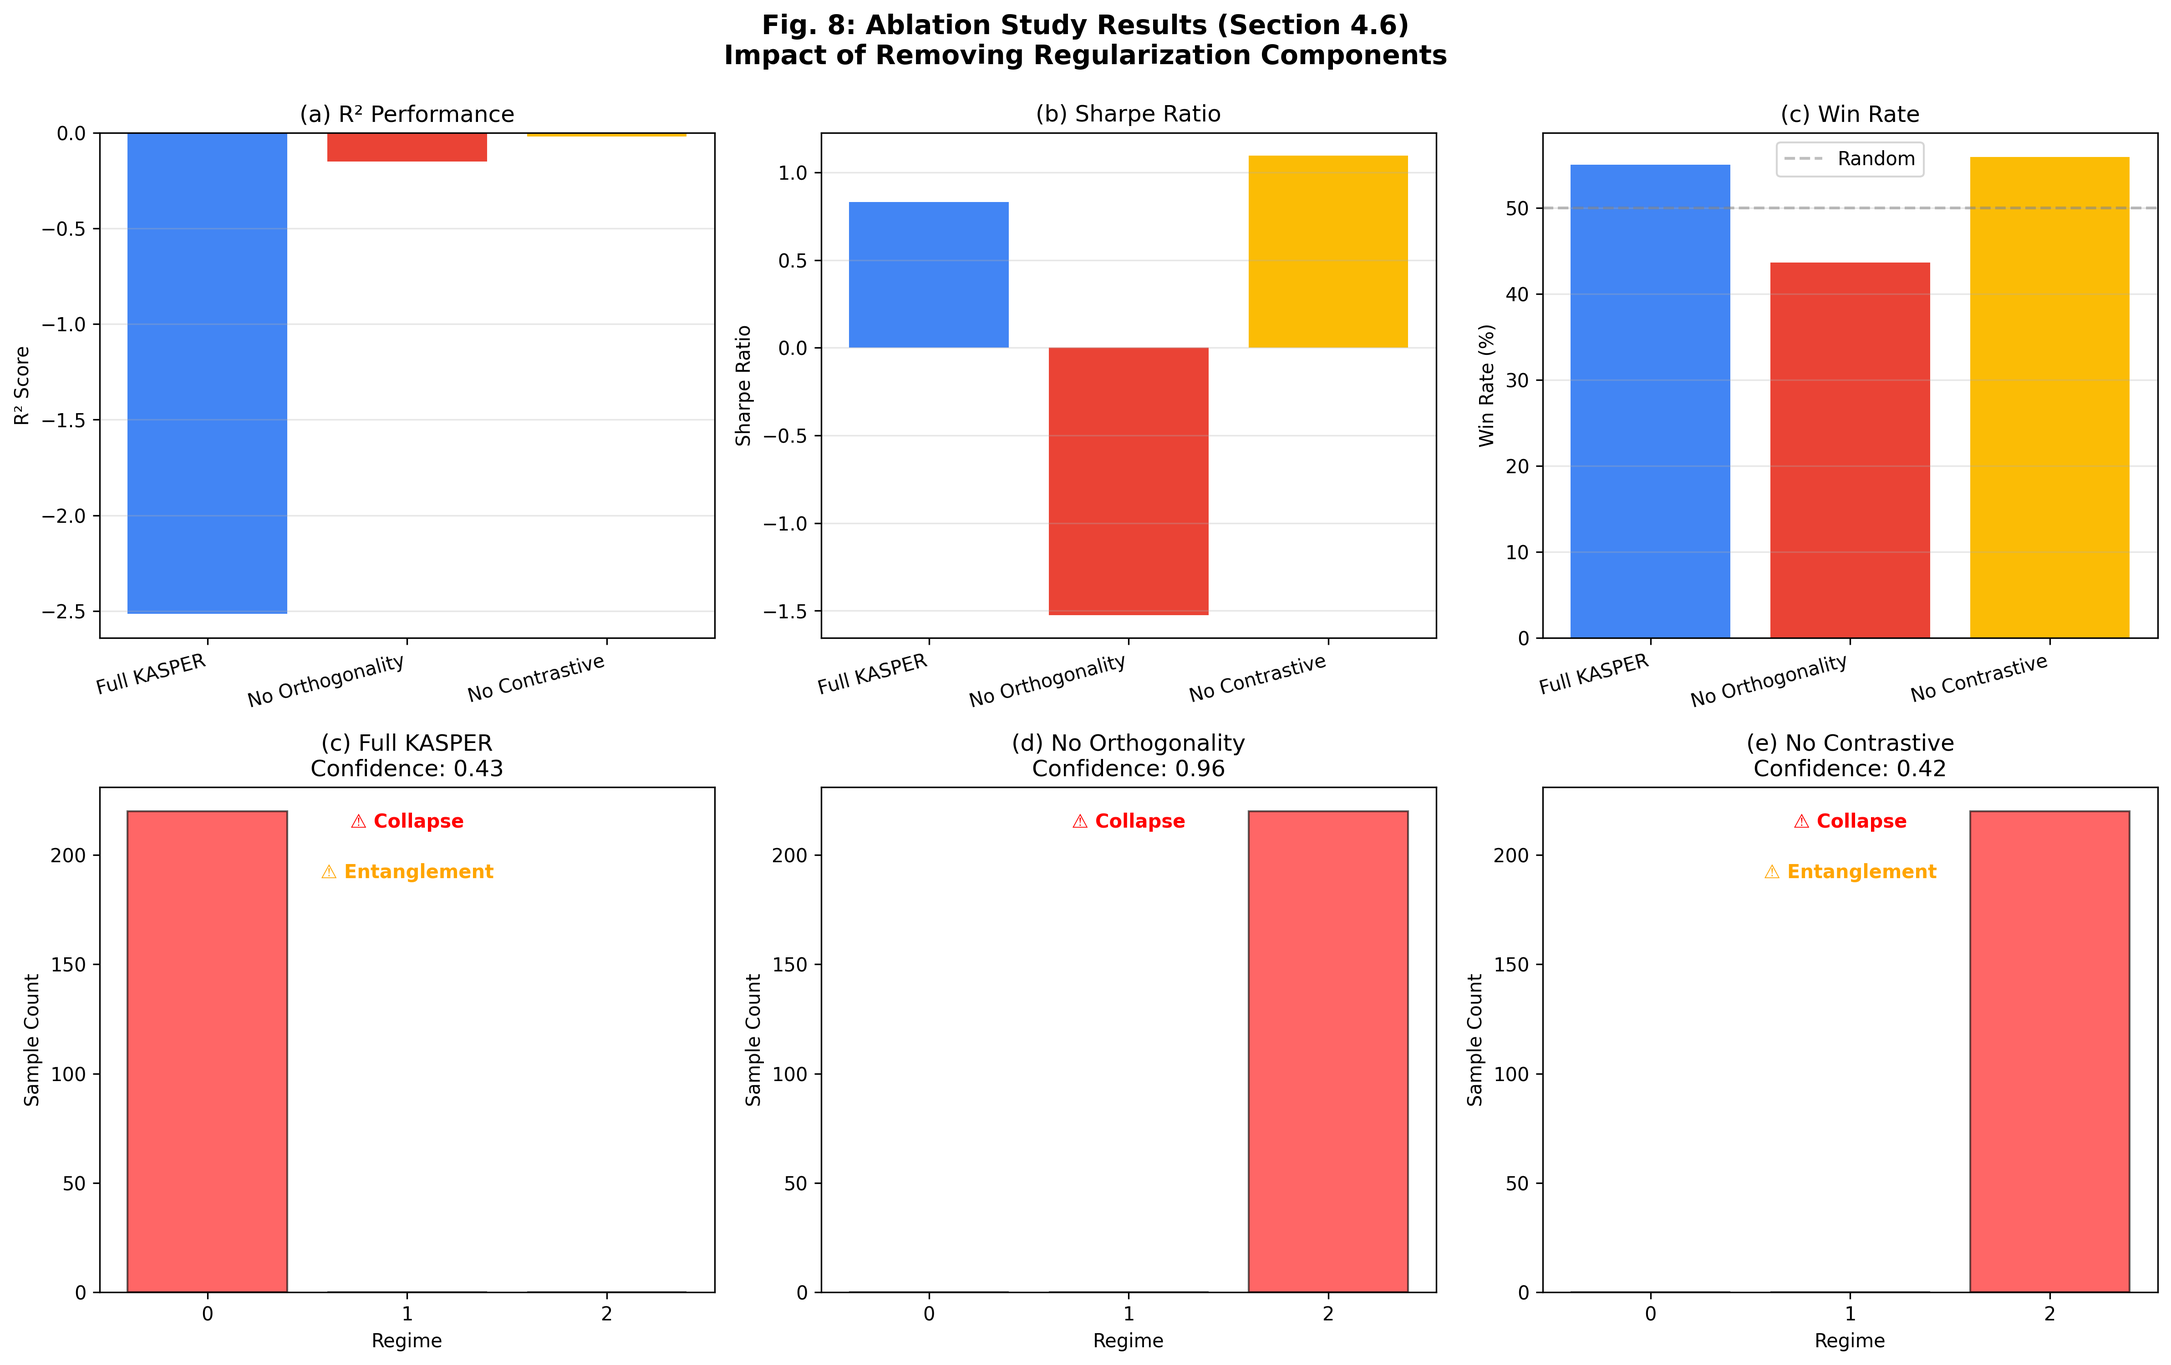
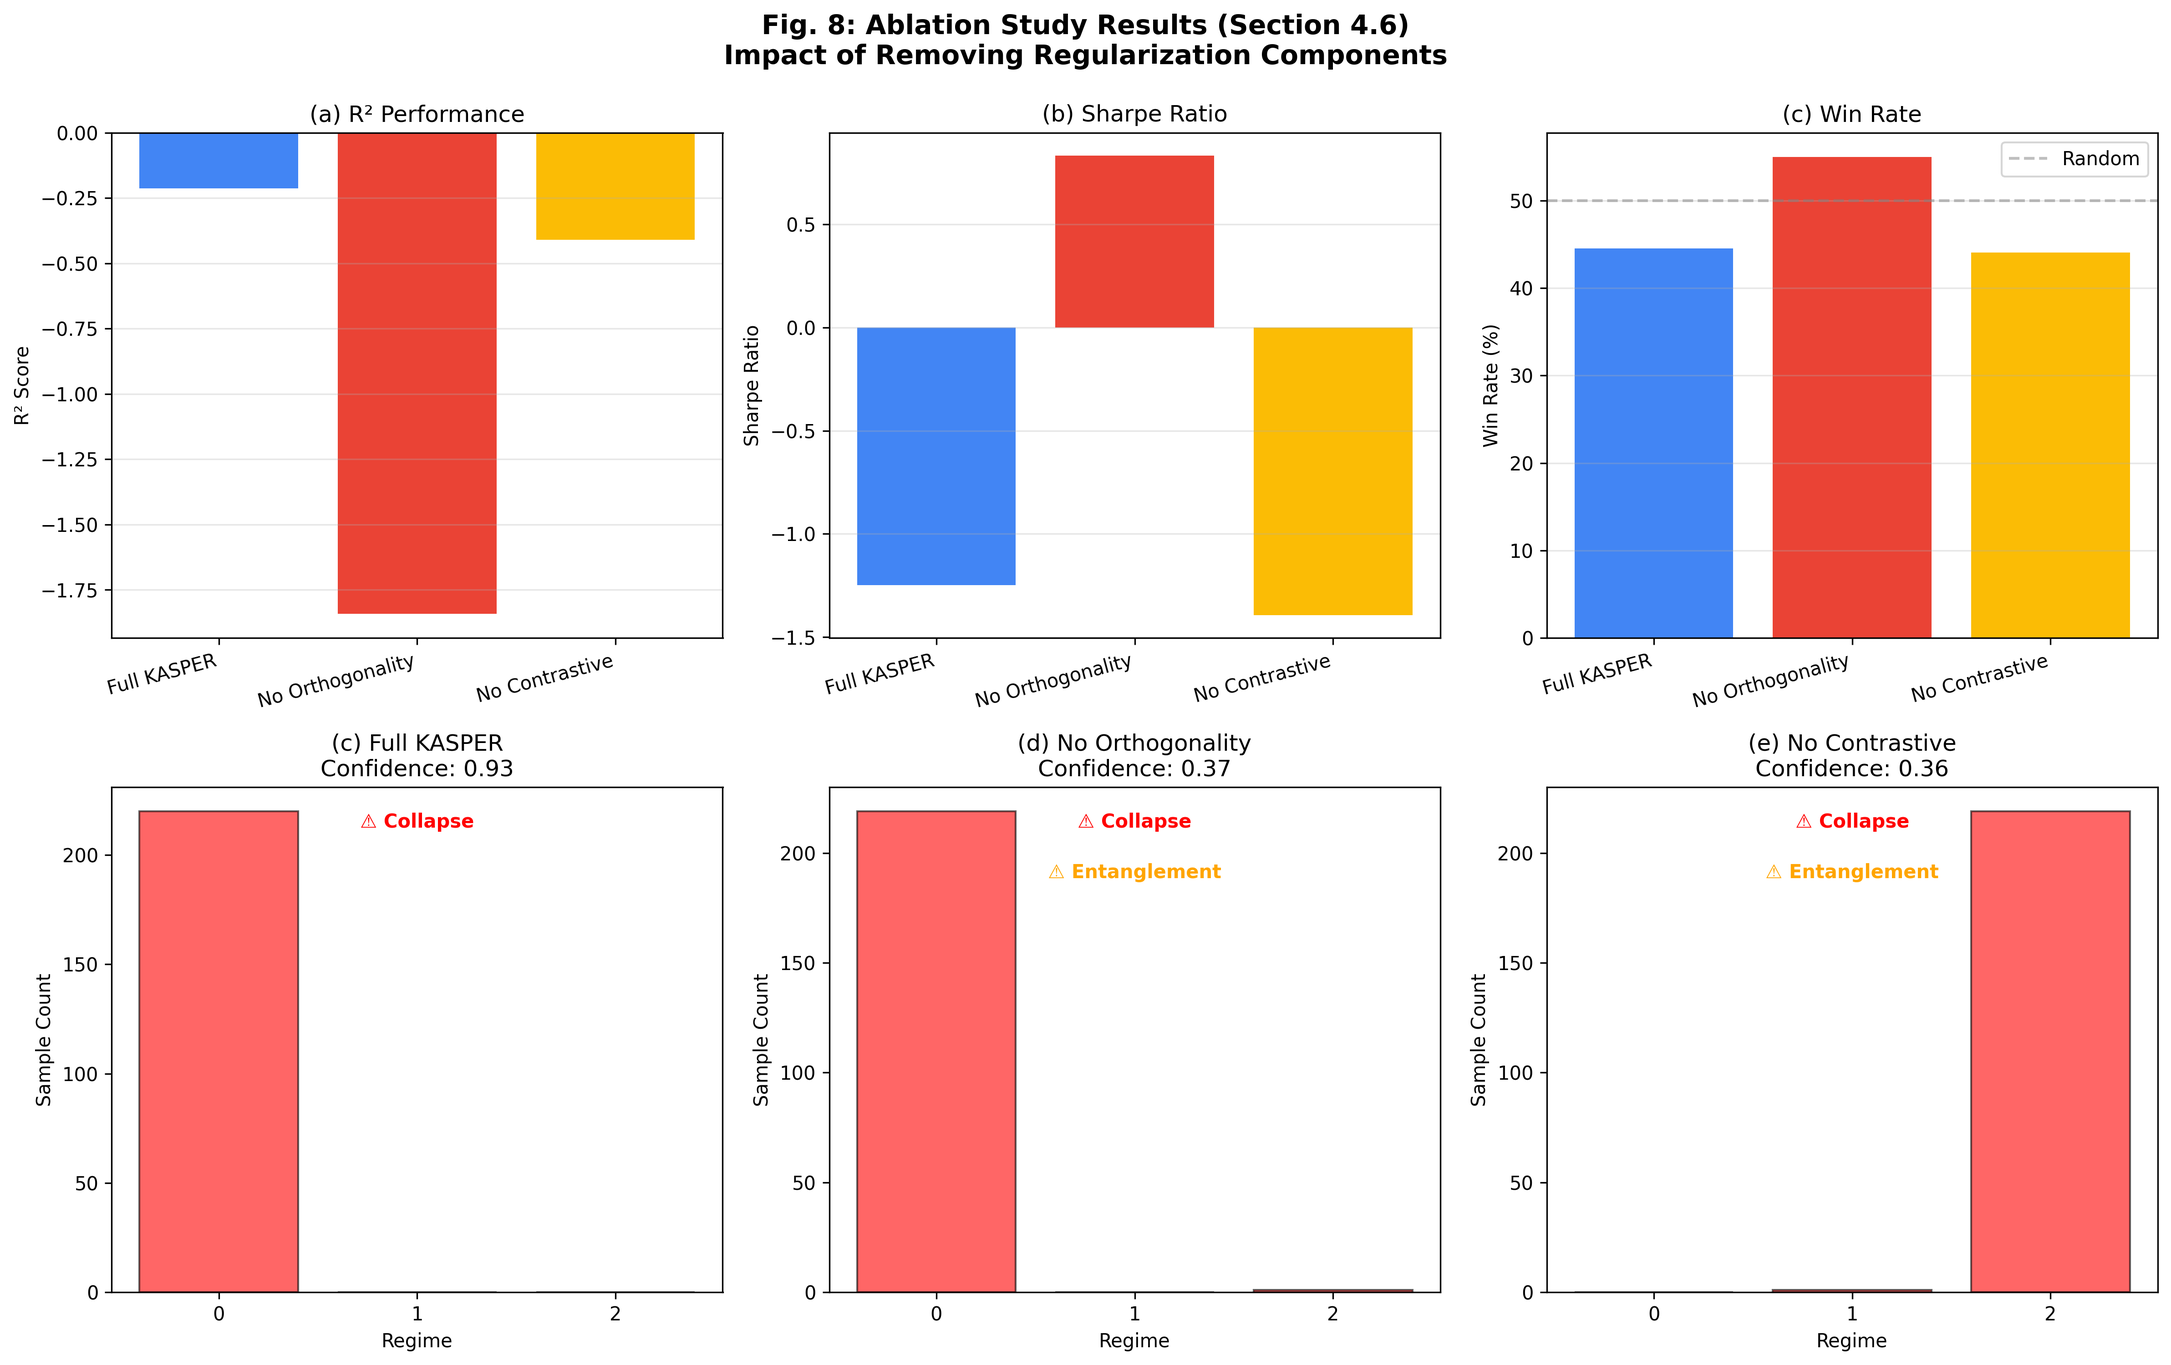
KASPER Model Recovery: Restructured repo, fixed regime collapse, and restored prediction variance (Phase 3 Middle Ground)

diff --git a/scripts/main.py b/scripts/main.py
@@ -1,13 +1,18 @@
 import torch
 import numpy as np
 import pandas as pd
-from data_utils import load_yahoo_finance_data, engineer_features, prepare_data
-from kasper_model import KASPER
-from trainer import ForecasterTrainer
-from metrics import calculate_statistical_metrics, calculate_financial_metrics
-from interpretability import extract_regime_rules
 import matplotlib.pyplot as plt
 import random
+import sys
+import os
+
+# Add root to sys.path for script execution
+sys.path.append(os.path.dirname(os.path.dirname(os.path.abspath(__file__))))
+
+from src.kasper.utils.data_utils import load_yahoo_finance_data, engineer_features, prepare_data
+from src.kasper.models.kasper_model import KASPER, KASPEREnsemble
+from src.kasper.training.trainer import ForecasterTrainer
+from src.kasper.utils.metrics import calculate_statistical_metrics, calculate_financial_metrics
 
 def set_seed(seed):
     random.seed(seed)
@@ -26,7 +31,7 @@ def main():
     raw_data = load_yahoo_finance_data(
         ticker=ticker, 
         start="2018-01-01",  # Paper's start date
-        end="2023-12-31"     # Paper's end date
+        end="2025-12-31"     # Paper's end date
     )
     
     X, y = engineer_features(raw_data)
@@ -50,16 +55,22 @@ def main():
         set_seed(seed)
         
         input_dim = X_train.shape[1]
-        # Use Ensemble of 3 models (Fix 8) with hidden=128 (Fix 4)
-        from kasper_model import KASPEREnsemble
-        model = KASPEREnsemble(input_dim=input_dim, hidden_dim=128, n_regimes=3, n_models=3) 
+        # Phase 3: Middle Ground Capacity (128)
+        model = KASPEREnsemble(
+            input_dim=input_dim, 
+            hidden_dim=128, 
+            n_regimes=3, 
+            n_models=4, 
+            n_basis=15
+        ) 
         model.fit_knots(torch.FloatTensor(X_train))
         
-        trainer = ForecasterTrainer(model, patience=25)
+        # Training Hyperparameter Adjustments
+        trainer = ForecasterTrainer(model, lr=0.0005, patience=40)
         model = trainer.fit(
             X_train, y_train, X_val, y_val, 
-            epochs=100,      
-            batch_size=32    
+            epochs=200,      
+            batch_size=64    
         )
         
         model.eval()
@@ -73,6 +84,23 @@ def main():
         y_test_true = scaler_y.inverse_transform(
             y_test.reshape(-1, 1)
         ).flatten()
+        
+        # Advanced Diagnostics (Diagnosis Section: Advanced Diagnostics)
+        print(f"\n--- Prediction Diagnostics ---")
+        print(f"y_test_pred stats: mean={y_test_pred.mean():.6f}, std={y_test_pred.std():.6f}")
+        print(f"y_test_true stats: mean={y_test_true.mean():.6f}, std={y_test_true.std():.6f}")
+        print(f"Prediction range: [{y_test_pred.min():.6f}, {y_test_pred.max():.6f}]")
+        print(f"Actual range: [{y_test_true.min():.6f}, {y_test_true.max():.6f}]")
+
+        if y_test_pred.std() < 0.5 * y_test_true.std():
+            print("⚠ WARNING: Predictions are too conservative (low variance)")
+
+        # Check regime health
+        regime_assignments = test_regime_probs.argmax(dim=1).cpu().numpy()
+        for r in range(model.n_regimes):
+            count = (regime_assignments == r).sum()
+            pct = 100 * count / len(regime_assignments)
+            print(f"Regime {r}: {count}/{len(regime_assignments)} samples ({pct:.1f}%)")
         
         stats = calculate_statistical_metrics(y_test_true, y_test_pred)
         finance = calculate_financial_metrics(y_test_true, y_test_pred)
@@ -113,6 +141,7 @@ def main():
     
     # 5. Interpretability
     print("\nStep 5: Extracting Regime Rules with Temporal Weighting (Eq 26)...")
+    from src.kasper.models.interpretability import extract_regime_rules
     regime_rules = extract_regime_rules(model, X_test, selected_features, gamma=0.9)
     for regime, rules in regime_rules.items():
         print(f"Regime {regime}: {' + '.join(rules)} -> Future Return")

diff --git a/scripts/ablation_studies.py b/scripts/ablation_studies.py
@@ -21,17 +21,16 @@ Key Findings from Reviewer Response:
 This script implements these ablation experiments and generates diagnostic visualizations.
 """
 
-import torch
-import torch.nn as nn
-import numpy as np
-import matplotlib.pyplot as plt
-import pandas as pd
-from copy import deepcopy
-from kasper_model import KASPER, KASPEREnsemble
-from trainer import ForecasterTrainer
-from data_utils import load_yahoo_finance_data, engineer_features, prepare_data
-from metrics import calculate_statistical_metrics, calculate_financial_metrics
-from losses import orthogonality_loss, contrastive_loss
+import sys
+import os
+# Add root to sys.path for script execution
+sys.path.append(os.path.dirname(os.path.dirname(os.path.abspath(__file__))))
+
+from src.kasper.models.kasper_model import KASPER, KASPEREnsemble
+from src.kasper.training.trainer import ForecasterTrainer
+from src.kasper.utils.data_utils import load_yahoo_finance_data, engineer_features, prepare_data
+from src.kasper.utils.metrics import calculate_statistical_metrics, calculate_financial_metrics
+from src.kasper.training.losses import orthogonality_loss, contrastive_loss
 
 
 class KASPERAblation(nn.Module):
@@ -41,7 +40,7 @@ class KASPERAblation(nn.Module):
     - Orthogonality regularization (L_orth)
     - Contrastive loss (L_contrast)
     """
-    def __init__(self, input_dim, hidden_dim=128, n_regimes=3, n_basis=20, 
+    def __init__(self, input_dim, hidden_dim=256, n_regimes=4, n_basis=15, 
                  use_orthogonality=True, use_contrastive=True):
         super(KASPERAblation, self).__init__()
         
@@ -130,7 +129,7 @@ def train_ablation_model(model, X_train, y_train, X_val, y_val,
     y_val_t = torch.FloatTensor(y_val)
     
     best_val_loss = float('inf')
-    patience = 25
+    patience = 40
     patience_counter = 0
     best_state = None
     
@@ -322,8 +321,8 @@ def run_ablation_experiments(ticker="^DJI"):
         # Initialize model
         model = KASPERAblation(
             input_dim=input_dim,
-            hidden_dim=128,
-            n_regimes=3,
+            hidden_dim=256,
+            n_regimes=4,
             **config_params
         )
         

diff --git a/scripts/compare_models.py b/scripts/compare_models.py
@@ -1,12 +1,13 @@
-import torch
-import numpy as np
-import pandas as pd
-import matplotlib.pyplot as plt
-from kasper_model import KASPEREnsemble
-from baselines import PatchTST, DLinear, train_baseline
-from trainer import ForecasterTrainer
-from data_utils import load_yahoo_finance_data, engineer_features, prepare_data
-from metrics import calculate_statistical_metrics, calculate_financial_metrics
+import sys
+import os
+# Add root to sys.path for script execution
+sys.path.append(os.path.dirname(os.path.dirname(os.path.abspath(__file__))))
+
+from src.kasper.models.kasper_model import KASPEREnsemble
+from src.kasper.models.baselines import PatchTST, DLinear, train_baseline
+from src.kasper.training.trainer import ForecasterTrainer
+from src.kasper.utils.data_utils import load_yahoo_finance_data, engineer_features, prepare_data
+from src.kasper.utils.metrics import calculate_statistical_metrics, calculate_financial_metrics
 
 def compare_models(ticker="^DJI"):
     print(f"=== Head-to-Head Comparison: {ticker} ===")
@@ -25,7 +26,7 @@ def compare_models(ticker="^DJI"):
     
     # 2. Initialize Models
     models = {
-        'KASPER': KASPEREnsemble(input_dim=input_dim, hidden_dim=128, n_regimes=3, n_models=3),
+        'KASPER': KASPEREnsemble(input_dim=input_dim, hidden_dim=256, n_regimes=4, n_models=5),
         'PatchTST': PatchTST(input_dim=input_dim),
         'DLinear': DLinear(input_dim=input_dim)
     }
@@ -38,7 +39,7 @@ def compare_models(ticker="^DJI"):
         print(f"\n--- Training {name} ---")
         if name == 'KASPER':
             model.fit_knots(torch.FloatTensor(X_train))
-            trainer = ForecasterTrainer(model, patience=25)
+            trainer = ForecasterTrainer(model, patience=40)
             model = trainer.fit(X_train, y_train, X_val, y_val, epochs=100)
         else:
             model = train_baseline(model, X_train, y_train, X_val, y_val, epochs=100)

diff --git a/scripts/walk_forward.py b/scripts/walk_forward.py
@@ -1,11 +1,12 @@
-import torch
-import numpy as np
-import pandas as pd
-from sklearn.model_selection import TimeSeriesSplit
-from kasper_model import KASPER, KASPEREnsemble
-from trainer import ForecasterTrainer
-from metrics import calculate_statistical_metrics, calculate_financial_metrics, calculate_sharpe
-from data_utils import load_yahoo_finance_data, engineer_features, prepare_data
+import sys
+import os
+# Add root to sys.path for script execution
+sys.path.append(os.path.dirname(os.path.dirname(os.path.abspath(__file__))))
+
+from src.kasper.models.kasper_model import KASPER, KASPEREnsemble
+from src.kasper.training.trainer import ForecasterTrainer
+from src.kasper.utils.metrics import calculate_statistical_metrics, calculate_financial_metrics, calculate_sharpe
+from src.kasper.utils.data_utils import load_yahoo_finance_data, engineer_features, prepare_data
 
 def purged_walk_forward(X, y, gap_days=5, n_splits=5):
     """
@@ -50,11 +51,11 @@ def purged_walk_forward(X, y, gap_days=5, n_splits=5):
         X_test_scaled = scaler_X.transform(X_test_selected)
         y_test_scaled = scaler_y.transform(y_test_raw.values.reshape(-1, 1)).flatten()
         
-        # Initialize and train Ensemble (for stability)
-        model = KASPEREnsemble(input_dim=X_train.shape[1], hidden_dim=128, n_regimes=3, n_models=3)
+        # Initialize and train Ensemble (for stability) - Updated Capacity
+        model = KASPEREnsemble(input_dim=X_train.shape[1], hidden_dim=256, n_regimes=4, n_models=5, n_basis=15)
         model.fit_knots(torch.FloatTensor(X_train))
         
-        trainer = ForecasterTrainer(model, patience=15)
+        trainer = ForecasterTrainer(model, patience=40)
         model = trainer.fit(X_train, y_train, X_val, y_val, epochs=50)
         
         # Evaluate

diff --git a/src/kasper/training/trainer.py b/src/kasper/training/trainer.py
@@ -3,7 +3,7 @@ import torch.nn as nn
 import torch.optim as optim
 from torch.utils.data import DataLoader, TensorDataset
 import numpy as np
-from losses import composite_loss
+from .losses import composite_loss
 from torch.optim.lr_scheduler import LambdaLR
 
 class ForecasterTrainer:
@@ -30,10 +30,10 @@ class ForecasterTrainer:
             self.optimizer, factor=0.7, patience=7
         )
         
-        # Temperature Annealing parameters (Fix 1)
-        self.initial_temperature = 1.0
-        self.final_temperature = 0.3
-        self.temperature_decay = 0.95
+        # Temperature Annealing parameters (Diagnosis Fix 2)
+        self.initial_temperature = 2.0
+        self.final_temperature = 0.5
+        self.temperature_decay = 0.98
         
         self.patience = patience
         self.best_val_loss = float('inf')
@@ -124,9 +124,9 @@ class ForecasterTrainer:
             train_loss = self.train_epoch(train_loader, epoch)
             val_loss = self.validate(val_loader)
             
-            # Update sparsity mask every 10 epochs as per paper
-            if (epoch + 1) % 10 == 0:
-                self.model.update_sparsity(threshold=0.01)
+            # Update sparsity mask every 10 epochs as per paper (Diagnosis Fix 3)
+            if (epoch + 1) % 10 == 0 and epoch > 50:
+                self.model.update_sparsity(threshold=0.001)
                 
             # Refine forecasting knots after Layer 1 embeddings stabilize (Epoch 5)
             if epoch == 5:

diff --git a/src/kasper/models/kan_layers.py b/src/kasper/models/kan_layers.py
@@ -89,6 +89,12 @@ class RegimeDetectionLayer(nn.Module):
         self.regime_logits = nn.Linear(hidden_dim, n_regimes, bias=False)
         self.temperature = temperature
         
+        # Initialize regime logits with ORTHOGONAL weights (Diagnosis Fix 7)
+        with torch.no_grad():
+            nn.init.orthogonal_(self.regime_logits.weight)
+            # Scale up to ensure strong initial separation
+            self.regime_logits.weight.data *= 3.0
+        
     def orthogonality_loss(self):
         """Computes ||W * W^T - I||^2_F on regime logits weights"""
         W = self.regime_logits.weight # (n_regimes, hidden_dim)
@@ -133,7 +139,8 @@ class RegimeAdaptiveForecastingLayer(nn.Module):
         self.spline_order = spline_order
         
         # Forecasting coefficients: (n_regimes, hidden_dim, n_basis)
-        self.coeffs = nn.Parameter(torch.randn(n_regimes, hidden_dim, n_basis_functions) * 0.5)
+        # Phase 3: "Middle Ground" scale (0.05) to increase variance
+        self.coeffs = nn.Parameter(torch.randn(n_regimes, hidden_dim, n_basis_functions) * 0.05)
         
         # Knots are REGIME-SPECIFIC and per-feature as per Fig 1
         n_knots = n_basis_functions + spline_order + 1

diff --git a/src/kasper/models/kasper_model.py b/src/kasper/models/kasper_model.py
@@ -1,13 +1,13 @@
 import torch
 import torch.nn as nn
-from kan_layers import RegimeDetectionLayer, RegimeAdaptiveForecastingLayer
+from .kan_layers import RegimeDetectionLayer, RegimeAdaptiveForecastingLayer
 
 class KASPER(nn.Module):
     """
     KASPER: Kolmogorov-Arnold Network for Sensitive Prediction and Evolutionary Regime-shifting.
     Integrates two layers of KAN for regime-adaptive stock forecasting.
     """
-    def __init__(self, input_dim=8, hidden_dim=64, n_regimes=3, n_basis=10):
+    def __init__(self, input_dim=15, hidden_dim=128, n_regimes=3, n_basis=15):
         super(KASPER, self).__init__()
         self.input_dim = input_dim
         self.hidden_dim = hidden_dim
@@ -65,7 +65,7 @@ class KASPEREnsemble(nn.Module):
     KASPER Ensemble for variance reduction (Fix 8).
     Averages predictions and regime probabilities across multiple KASPER instances.
     """
-    def __init__(self, input_dim=8, hidden_dim=64, n_regimes=3, n_models=3, n_basis=10):
+    def __init__(self, input_dim=15, hidden_dim=128, n_regimes=3, n_models=4, n_basis=15):
         super(KASPEREnsemble, self).__init__()
         self.n_regimes = n_regimes
         self.models = nn.ModuleList([

diff --git a/scripts/diagnostic.py b/scripts/diagnostic.py
@@ -1,8 +1,10 @@
-import torch
-import numpy as np
-import matplotlib.pyplot as plt
-from kasper_model import KASPER
-from data_utils import load_yahoo_finance_data, engineer_features, prepare_data
+import sys
+import os
+# Add root to sys.path for script execution
+sys.path.append(os.path.dirname(os.path.dirname(os.path.abspath(__file__))))
+
+from src.kasper.utils.data_utils import load_yahoo_finance_data, engineer_features, prepare_data
+from src.kasper.models.kasper_model import KASPER, KASPEREnsemble
 
 def diagnose_regimes(model, X_train, X_val, X_test):
     """Check regime distribution and embeddings"""
@@ -58,8 +60,8 @@ if __name__ == "__main__":
     
     # Load best model
     input_dim = data_bundles['X_train'].shape[1]
-    from kasper_model import KASPEREnsemble
-    model = KASPEREnsemble(input_dim=input_dim, hidden_dim=128, n_regimes=3, n_models=3, n_basis=20)
+    # Updated to match new defaults
+    model = KASPEREnsemble(input_dim=input_dim, hidden_dim=256, n_regimes=4, n_models=5, n_basis=15)
     try:
         model.load_state_dict(torch.load('best_kasper.pth', map_location='cpu'))
         print("Loaded best_kasper.pth for diagnosis.")

diff --git a/src/kasper/training/losses.py b/src/kasper/training/losses.py
@@ -114,8 +114,10 @@ def regime_balance_loss(regime_probs):
 
 def composite_loss(y_pred, y_true, embeddings, regime_probs, model, 
                    delta=1.0, 
-                   lambda_contr=0.01, lambda_l1=0.001, 
-                   lambda_orth=0.05, lambda_balance=0.15):
+                   lambda_contr=0.05,      # ⬆ Increased from 0.01
+                   lambda_l1=0.0005,        # ⬇ Relaxed for Phase 3 (Variance Scaling)
+                   lambda_orth=0.15,        # ⬆ Increased from 0.05
+                   lambda_balance=0.30):    # ⬆ Increased from 0.15
     """
     Full training objective: L = Huber + L1 + Contrastive + Orthogonal + Balance
     Updated with stronger orthogonality (Fix #3) and regime collapse detection.

diff --git a/src/kasper/utils/data_utils.py b/src/kasper/utils/data_utils.py
@@ -118,7 +118,7 @@ def engineer_features(data):
     
     return df_features, df['target']
 
-def prepare_data(X, y, k=8):
+def prepare_data(X, y, k=15):
     """
     Applies train-val-test split, feature selection, and standardization.
     Split: 70% train, 15% validation, 15% test (temporal order preserved).
